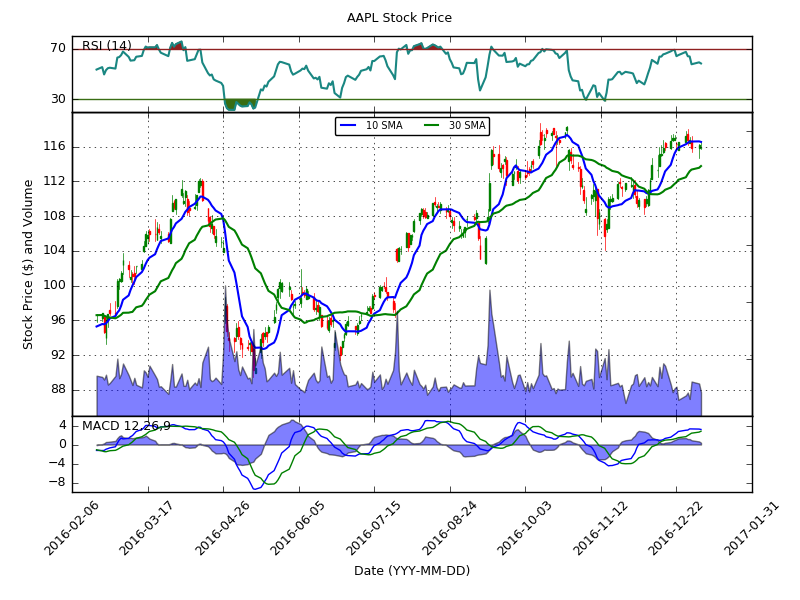
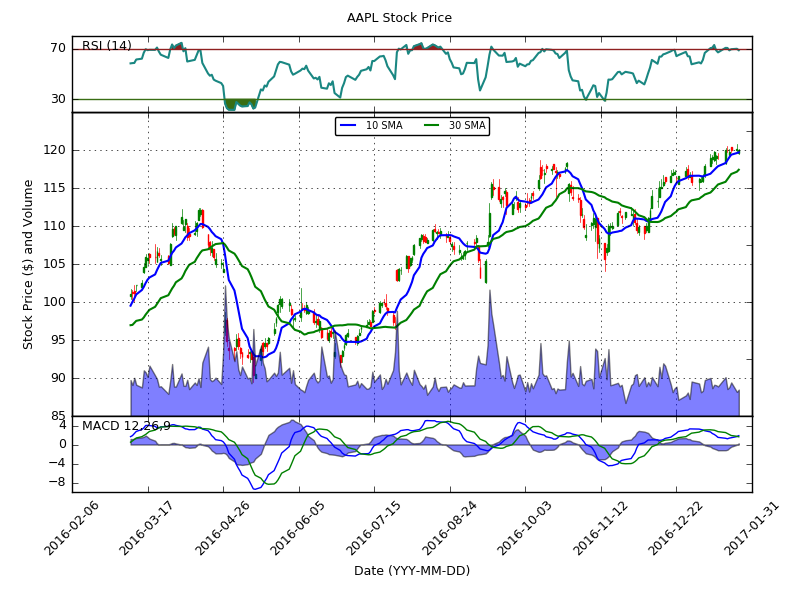
dynamicly pulling from yahoo finance api

diff --git a/technical-analysis/oneDayOHLC/sma_ema_vol_ohlc_rsi.py b/technical-analysis/oneDayOHLC/sma_ema_vol_ohlc_rsi.py
@@ -8,7 +8,7 @@ import matplotlib.dates as mdates
 from matplotlib.finance import candlestick_ochl
 # custom matplotlib parameters
 matplotlib.rcParams.update({'font.size': 9})
-
+import urllib2
 stocks = 'AAPL', 'FB', 'UAA'
 
 # compute the n period relative strength indicator
@@ -64,10 +64,27 @@ def computeMACD(x, slow=26, fast=12):
 
 def graphData(stock, MA1, MA2):
 	try:
-		s = stock + '.txt'
+		try:
+			print 'pulling data on', stock
+			urlToVisit = 'http://chartapi.finance.yahoo.com/instrument/1.0/' + stock + '/chartdata;type=quote;range=1y/csv'
+			stockFile = []
+			try:
+				sourceCode = urllib2.urlopen(urlToVisit).read()
+				splitSource = sourceCode.split('\n')
+				for eachLine in splitSource:
+					splitLine = eachLine.split(',')
+					if len(splitLine) == 6:
+						if 'values' not in eachLine:
+							stockFile.append(eachLine)
+
+			except Exception, e:
+				print str(e), 'error in organization of pulled data'
+
+		except Exception, e:
+			print str(e), 'error in pulling price data'
 
 		# load values and format the date
-		date, closePrice, highPrice, lowPrice, openPrice, volume = np.loadtxt(s, delimiter=',', unpack=True, converters={0: mdates.strpdate2num('%Y%m%d')})
+		date, closePrice, highPrice, lowPrice, openPrice, volume = np.loadtxt(stockFile, delimiter=',', unpack=True, converters={0: mdates.strpdate2num('%Y%m%d')})
 
 		# add dates to data for candlestick to be plotted
 		i = 0
@@ -84,7 +101,7 @@ def graphData(stock, MA1, MA2):
 
 		# starting point, plot exactly same amount of data
 		SP = len(date[MA2-1:])
-		
+
 		label_1 = str(MA1) + ' SMA'
 		label_2 = str(MA2) + ' SMA'
 
@@ -152,7 +169,7 @@ def graphData(stock, MA1, MA2):
 		d.fill_between(date[-SP:], macd[-SP:]-ema9[-SP:], 0, alpha=0.5)
 		d.text(0.015, 0.95, 'MACD 12,26,9', va='top', transform=d.transAxes)
 		d.yaxis.set_major_locator(mticker.MaxNLocator(nbins=5, prune='upper'))
-		
+
 		# rotating angles by 90 degrees to fit properly
 		for label in d.xaxis.get_ticklabels():
 			label.set_rotation(45)
@@ -171,11 +188,11 @@ def graphData(stock, MA1, MA2):
 		mplot.show()
 
 
-		f.savefig('financial_graph.png')		
+		f.savefig('financial_graph.png')
 
 
 	except Exception, e:
 		print 'error in main:', str(e)
 
-
-graphData('AAPL', 10, 30)
+stockToUse = raw_input('Stock to chart: ')
+graphData(stockToUse, 10, 30)
